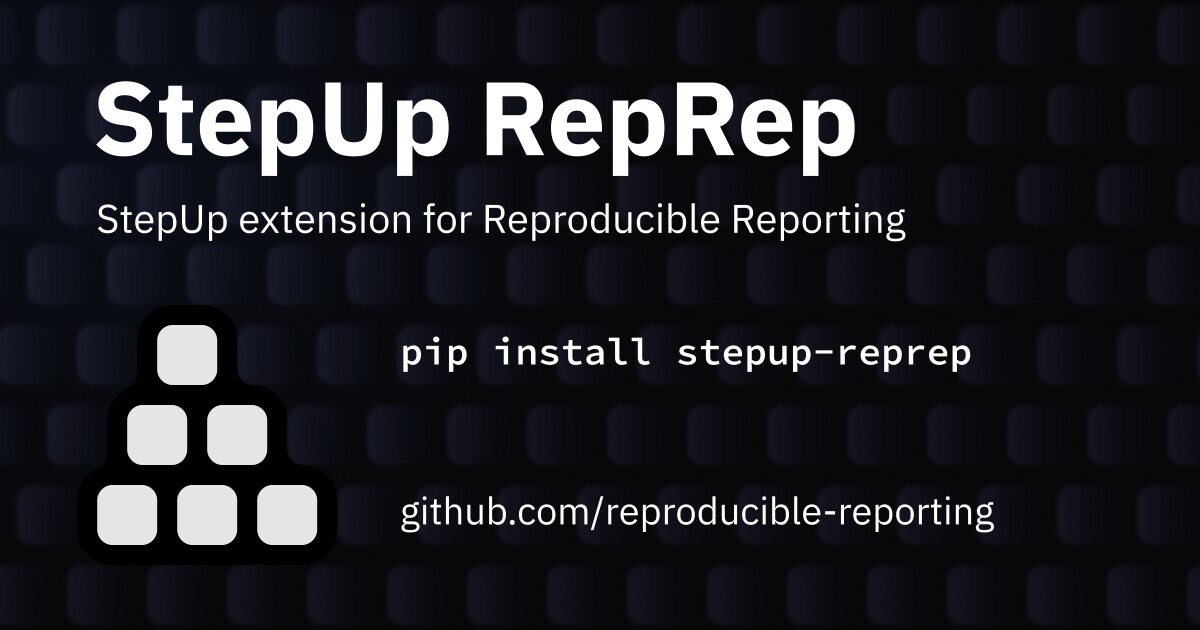
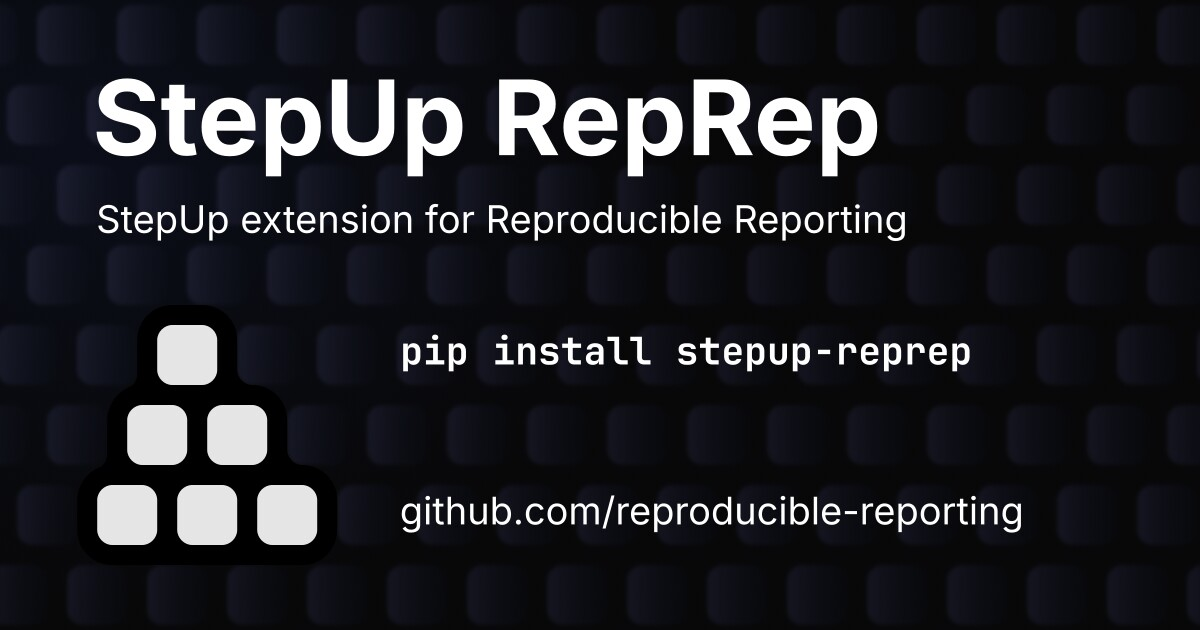
Make fonts consistent

diff --git a/docs/CLAUDE.md b/docs/CLAUDE.md
@@ -38,8 +38,11 @@ because it hands the SVG to the JPEG output extension instead of a rasterized im
 Three properties of the source must hold, and none of them is checked automatically:
 
 - The card measures 1200 by 630 pixels, the size the meta tags declare.
-- The text is set in IBM Plex Sans and Source Code Pro as live text, not as paths,
+- The text is set in Inter and JetBrains Mono as live text, not as paths,
   so those fonts have to be installed for the export to look right.
+  They are the default fonts of the `modern` theme variant of Zensical,
+  which the site uses because `zensical.toml` sets neither a variant nor a font,
+  so a change of either there calls for the same change in the card.
   Without them, Inkscape silently substitutes and the card changes.
 - The tagline is kept in step with the other copies by `snipwise.md`,
   which locates it through the `id="tagline"` attribute of its `tspan`.
